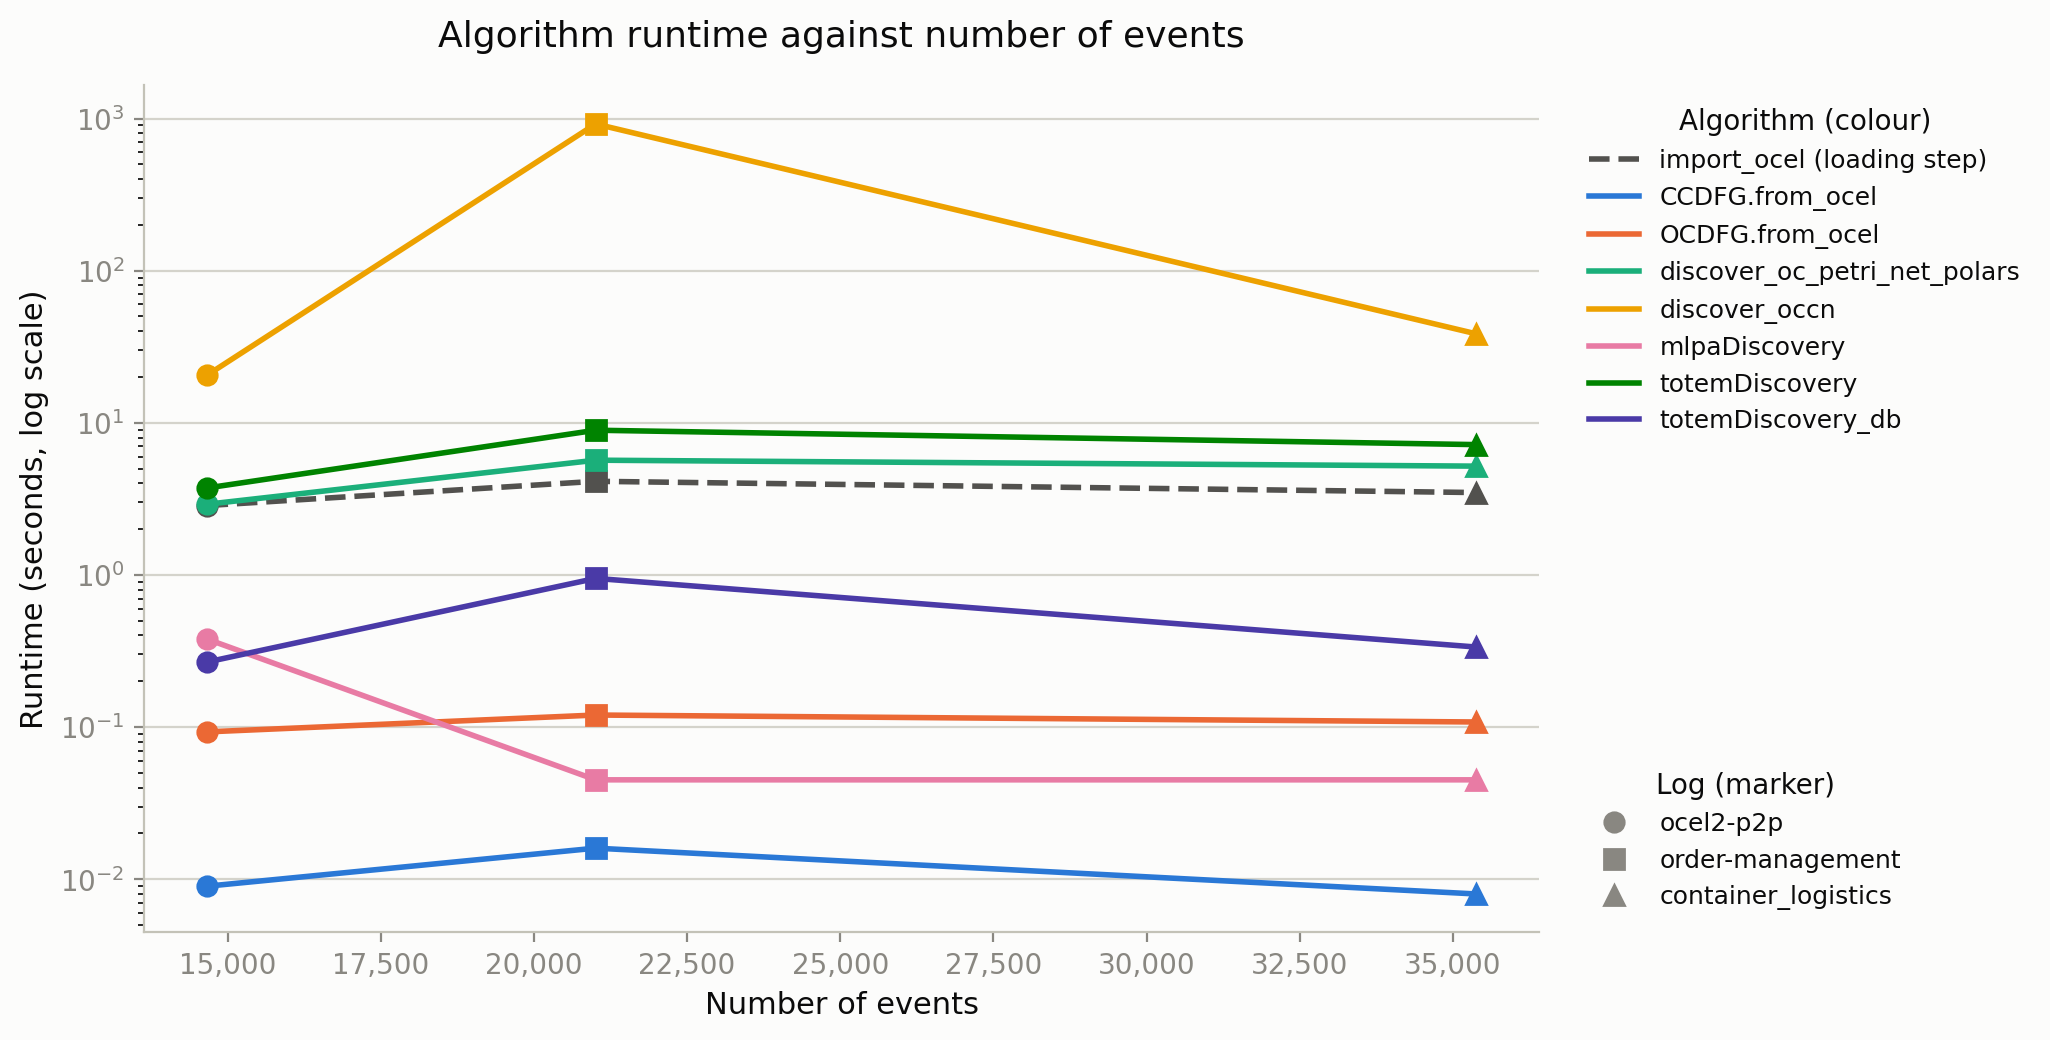
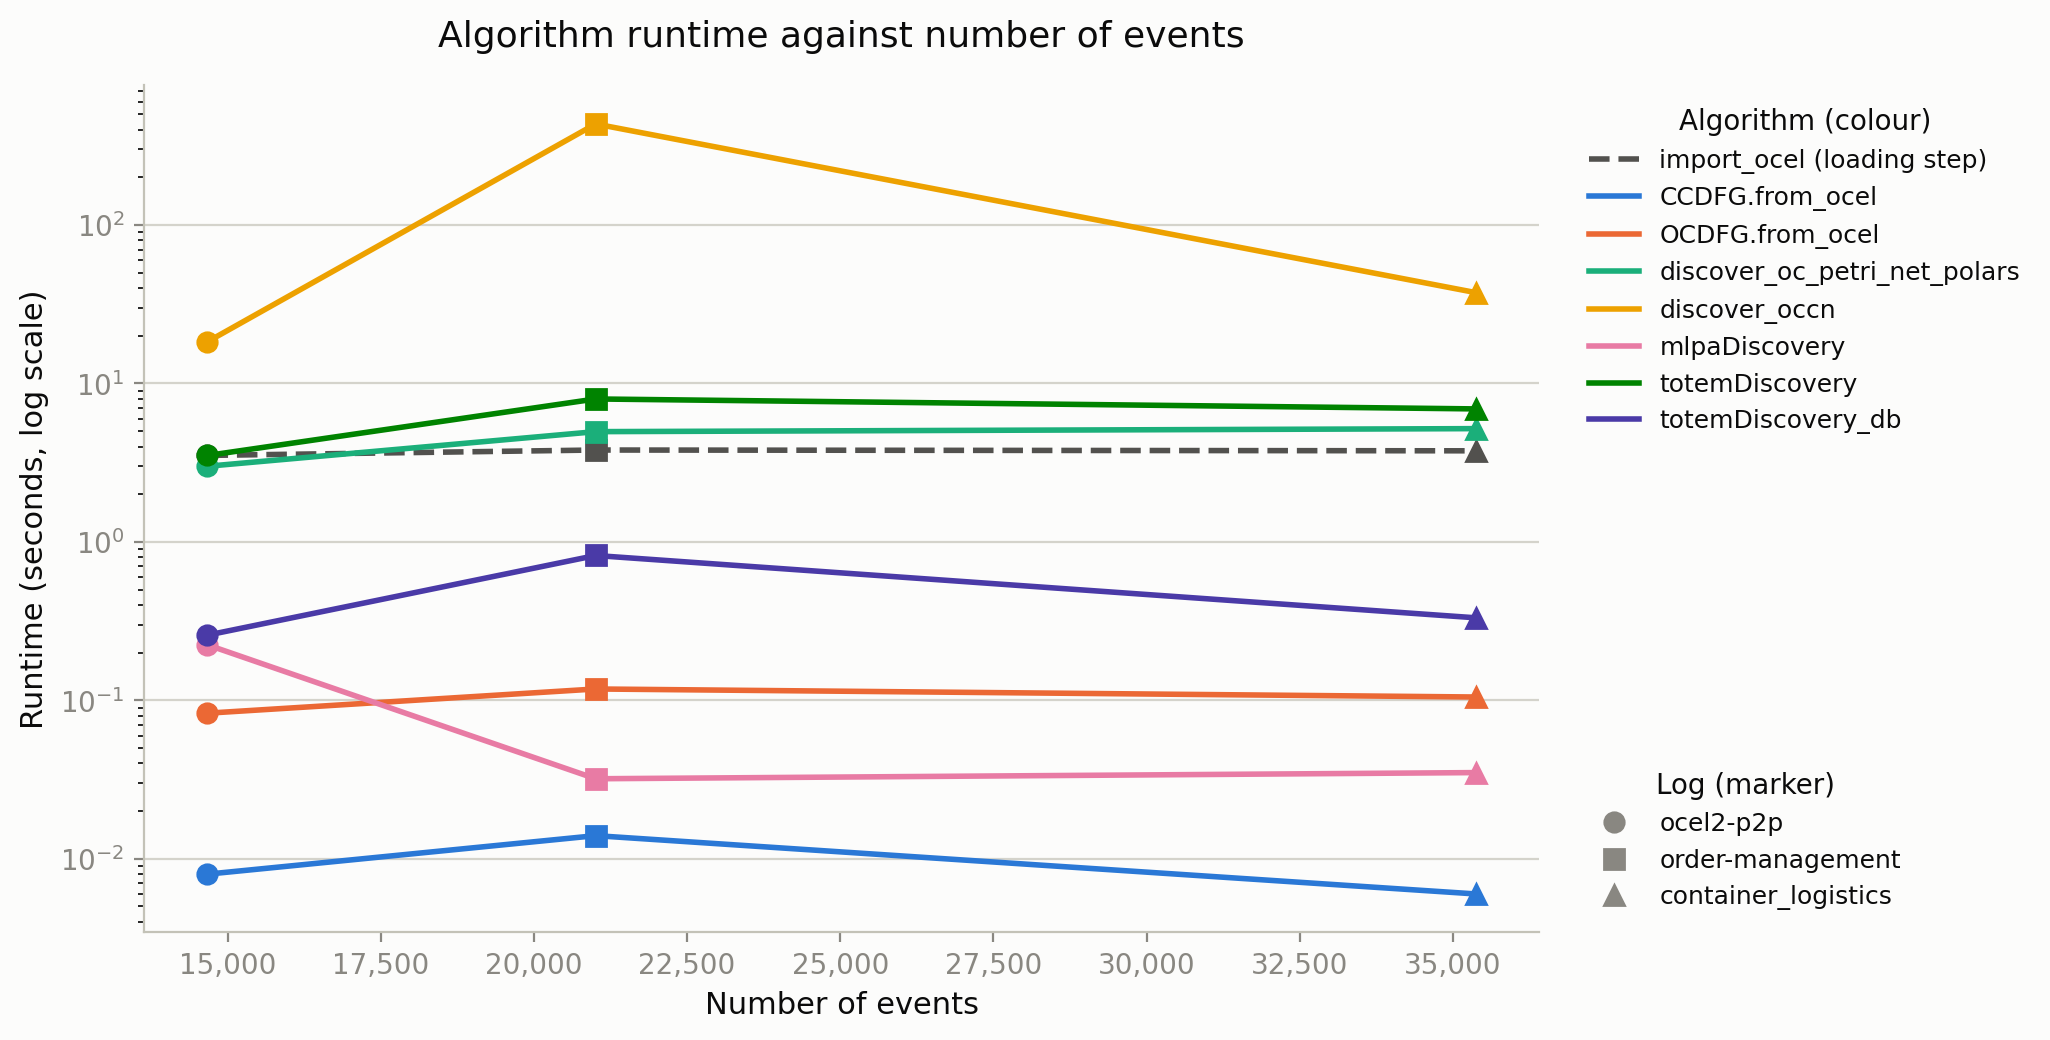
Build the DuckDB copy from the log file, and commit a clean example run
The _db algorithms were loading the .duckdb files bundled in test_data.
Those were built once, in April, from a normalised copy of the logs with
spaces stripped from object types and activities, so they held different
labels and slightly different rows from the OCEL files the polars side
reads. The two families were not measuring the same data.

That hid a real bug. container_logistics has a leading object type of
"Customer Order", but the bundled DuckDB called it "CustomerOrder", so
find_variants searched for an object type that did not exist. It returned
successfully in 0.754 s having done nothing, and that number was
published as a measurement.

LogContext now builds each DuckDB from the same OCEL file the polars side
reads, into a temporary directory that is removed on close. Labels and
event counts match on all three logs, and the leading type resolves. The
duckdb_path field goes with it: it only ever pointed at the stale copy,
and keeping it would invite the same bug back.

The two importers still disagree a little - the polars one filters out
objects the DuckDB one keeps, so ocel2-p2p has 9,543 objects against
9,054 - which is worth its own issue. Event counts and labels match.

The committed example is replaced with an averaged three-repeat run on an
idle machine. The previous one was a single sample taken while the test
suite ran, which inflated discover_occn to 921 s; the average is 434.7 s.
[…]

diff --git a/totem_lib/evaluation/datasets.py b/totem_lib/evaluation/datasets.py
@@ -175,9 +175,9 @@ class EvaluationLog:
     `download_url` is None for logs bundled in git; the download fields are only
     populated for logs that live in the gitignored `test_data/large/`.
 
-    `duckdb_path` points at the DuckDB copy of the same log, which the `_db` algorithms
-    need. `leading_object_type` is the object type used as the "case" when an algorithm
-    needs one, such as variant discovery.
+    `leading_object_type` is the object type used as the "case" when an algorithm needs
+    one, such as variant discovery. The `_db` algorithms build their own DuckDB copy
+    from `path` at run time, so no second file is recorded here.
     """
 
     name: str
@@ -185,7 +185,6 @@ class EvaluationLog:
     path: Path
     statistics: LogStatistics | None = None
     file_format: str | None = None
-    duckdb_path: Path | None = None
     leading_object_type: str | None = None
     download_url: str | None = None
     md5: str | None = None
@@ -195,11 +194,6 @@ class EvaluationLog:
     def available(self) -> bool:
         """Whether the log is present on disk and ready to load."""
         return self.path.exists()
-
-    @property
-    def has_duckdb(self) -> bool:
-        """Whether the DuckDB copy is on disk, which the *_db algorithms need."""
-        return self.duckdb_path is not None and self.duckdb_path.exists()
 
     @property
     def bundled(self) -> bool:
@@ -226,7 +220,6 @@ LOGS: tuple[EvaluationLog, ...] = tuple(
                 name="ocel2-p2p",
                 source_url="https://doi.org/10.5281/zenodo.8412919",
                 path=SMALL / "ocel2-p2p.json",
-                duckdb_path=SMALL / "ocel2-p2p.duckdb",
                 leading_object_type="purchase_requisition",
                 statistics=LogStatistics(
                     num_events=14671,
@@ -243,7 +236,6 @@ LOGS: tuple[EvaluationLog, ...] = tuple(
                 name="order-management",
                 source_url="https://doi.org/10.5281/zenodo.8337463",
                 path=SMALL / "order-management.json",
-                duckdb_path=SMALL / "order-management.duckdb",
                 leading_object_type="orders",
                 statistics=LogStatistics(
                     num_events=21008,
@@ -260,7 +252,6 @@ LOGS: tuple[EvaluationLog, ...] = tuple(
                 name="container_logistics",
                 source_url="https://doi.org/10.5281/zenodo.8289899",
                 path=SMALL / "container_logistics.json",
-                duckdb_path=SMALL / "container_logistics.duckdb",
                 leading_object_type="Customer Order",
                 statistics=LogStatistics(
                     num_events=35372,

diff --git a/totem_lib/tests/test_algorithms.py b/totem_lib/tests/test_algorithms.py
@@ -104,16 +104,46 @@ def test_the_totem_is_discovered_once_and_reused(monkeypatch):
     assert calls == ["an-ocel"]  # discovered once, from the imported log
 
 
-def test_a_log_without_a_duckdb_copy_says_so():
-    context = LogContext(_log(duckdb_path=None))
-    with pytest.raises(MissingInput, match="no DuckDB copy"):
-        _ = context.ocel_db
+def test_the_duckdb_copy_is_built_from_the_log_file(monkeypatch):
+    """
+    Both families must read the same file. The bundled .duckdb copies were built from a
+    normalised log, with spaces stripped from labels, so loading those would benchmark
+    different data - and did hide a real bug before this was fixed.
+    """
+    seen = []
+    monkeypatch.setattr("evaluation.algorithms.import_ocel_db",
+                        lambda path, db_path: seen.append((path, db_path)) or "a-db")
+    log = _log()
+    context = LogContext(log)
+    assert context.ocel_db == "a-db"
+    assert seen[0][0] == str(log.path)          # built from the log's own file
+    assert seen[0][1].endswith(".duckdb")
 
 
-def test_a_missing_duckdb_file_says_so():
-    context = LogContext(_log(duckdb_path=Path("does-not-exist.duckdb")))
-    with pytest.raises(MissingInput, match="no DuckDB copy"):
-        _ = context.ocel_db
+def test_the_duckdb_copy_is_built_once(monkeypatch):
+    calls = []
+    monkeypatch.setattr("evaluation.algorithms.import_ocel_db",
+                        lambda path, db_path: calls.append(path) or "a-db")
+    context = LogContext(_log())
+    _ = context.ocel_db
+    _ = context.ocel_db
+    assert len(calls) == 1
+
+
+def test_closing_removes_the_temporary_database(monkeypatch):
+    monkeypatch.setattr("evaluation.algorithms.import_ocel_db",
+                        lambda path, db_path: _FakeDb())
+    context = LogContext(_log())
+    _ = context.ocel_db
+    scratch = Path(context._db_dir)
+    assert scratch.exists()
+    context.close()
+    assert not scratch.exists()
+
+
+class _FakeDb:
+    def close(self):
+        pass
 
 
 def test_a_log_without_a_leading_object_type_says_so():
@@ -136,9 +166,8 @@ def test_closing_a_context_without_a_database_is_harmless():
 # ---------------------------------------------------------------------------
 
 def test_every_log_can_supply_what_the_db_algorithms_need():
-    """totemDiscovery_db and find_variants are unusable without these."""
+    """CCDFG and find_variants are unusable without a leading object type."""
     for log in LOGS:
-        assert log.duckdb_path is not None, log.name
         assert log.leading_object_type, log.name
 
 

diff --git a/totem_lib/evaluation/run_benchmarks.py b/totem_lib/evaluation/run_benchmarks.py
@@ -8,16 +8,25 @@ in later.
 
 A failing algorithm is reported and the run carries on. Ctrl+C stops the whole run.
 
-Costs vary enormously, and not with the number of events. Measured once, at one repeat:
+Costs vary enormously, and not with the number of events. Averages of three runs on an
+idle machine:
 
     algorithm       ocel2-p2p (14.7k)  order-management (21k)  container_logistics (35.4k)
-    discover_occn              20 s               610 s                    61 s
-    find_variants             1.6 s        did not finish                 0.8 s
-    OCDFG.from_ocel           0.2 s               0.1 s                    0.1 s
+    discover_occn            18.3 s              434.7 s                  37.5 s
+    totemDiscovery            3.5 s                8.0 s                   6.9 s
+    totemDiscovery_db        0.26 s               0.82 s                  0.33 s
+    OCDFG.from_ocel          0.08 s               0.12 s                  0.11 s
+    find_variants             1.6 s        out of memory            not measured
 
-order-management is the smaller log of the last two, yet it is where both slow algorithms
+order-management is the smaller log of the last two, yet it is where the slow algorithms
 blow up. It has the most event-to-object relations by far (147k, against 74k), which is
-what those two actually scale with. Start anything new on ocel2-p2p with --repeats 1.
+what they actually scale with. Start anything new on ocel2-p2p with --repeats 1.
+
+find_variants is left out of the committed run: it exhausts memory on order-management
+and ends in a MemoryError, taking the machine down with it. Its container_logistics
+figure is unmeasured - an earlier 0.8 s reading was invalid, because the benchmark then
+loaded a bundled .duckdb whose labels had spaces stripped, so the leading object type
+did not exist and the call did nothing.
 
 Run from the totem_lib/ directory:
     python evaluation/run_benchmarks.py
@@ -211,10 +220,9 @@ def print_plan(logs: Sequence[EvaluationLog], algorithms: Sequence[Algorithm]) -
     """Show what a run would cover, without running anything."""
     print("Logs:")
     for log in logs:
-        duckdb = "yes" if log.has_duckdb else "NO"
         print(
             f"  {log.name:24}{log.event_count or '?':>9} events  "
-            f"duckdb={duckdb}  leading_type={log.leading_object_type!r}"
+            f"leading_type={log.leading_object_type!r}"
         )
     print("\nAlgorithms:")
     for algorithm in algorithms:

diff --git a/totem_lib/evaluation/algorithms.py b/totem_lib/evaluation/algorithms.py
@@ -28,6 +28,9 @@ _TOTEM_LIB = Path(__file__).resolve().parent.parent
 sys.path.insert(0, str(_TOTEM_LIB / "src"))
 sys.path.insert(0, str(_TOTEM_LIB))
 
+import shutil
+import tempfile
+
 import polars as pl
 
 from evaluation.datasets import EvaluationLog, import_args
@@ -40,6 +43,7 @@ from totem_lib import (
     mlpaDiscovery,
     totemDiscovery,
 )
+from totem_lib.ocel.importer_db import import_ocel_db
 from totem_lib.ocel.ocel_duckdb import OcelDuckDB
 from totem_lib.totem import totemDiscovery_db
 from totem_lib.variants import find_variants
@@ -69,6 +73,7 @@ class LogContext:
         self.log = log
         self._ocel = None
         self._ocel_db = None
+        self._db_dir = None
         self._totem = None
         self._base_df = None
 
@@ -81,13 +86,22 @@ class LogContext:
 
     @property
     def ocel_db(self) -> OcelDuckDB:
-        """The DuckDB copy of the log, for the `_db` algorithms."""
+        """
+        The log loaded into DuckDB, for the `_db` algorithms.
+
+        Built from the same OCEL file the Polars side reads, so both families measure
+        the same data. The `.duckdb` files in test_data are not used: they were built
+        once from a normalised copy of the logs, with spaces stripped from object types
+        and activities, so they hold different labels and slightly different rows.
+
+        It is written to a temporary directory, not next to the log, because DuckDB
+        leaves scratch files beside its database.
+        """
         if self._ocel_db is None:
-            if not self.log.has_duckdb:
-                raise MissingInput(
-                    f"{self.log.name} has no DuckDB copy at {self.log.duckdb_path}"
-                )
-            self._ocel_db = OcelDuckDB.load(str(self.log.duckdb_path))
+            if self._db_dir is None:
+                self._db_dir = tempfile.mkdtemp(prefix="totem-eval-")
+            db_path = Path(self._db_dir) / f"{self.log.name}.duckdb"
+            self._ocel_db = import_ocel_db(str(self.log.path), db_path=str(db_path))
         return self._ocel_db
 
     @property
@@ -128,6 +142,9 @@ class LogContext:
         if self._ocel_db is not None:
             self._ocel_db.close()
             self._ocel_db = None
+        if self._db_dir is not None:
+            shutil.rmtree(self._db_dir, ignore_errors=True)
+            self._db_dir = None
 
 
 # ---------------------------------------------------------------------------

diff --git a/totem_lib/README.md b/totem_lib/README.md
@@ -119,10 +119,6 @@ algorithms differ by five orders of magnitude, and `import_ocel` is drawn as a g
 dashed baseline because it is the loading step the others build on, not a discovery
 algorithm.
 
-Reading the same results against different metrics matters. `discover_occn` looks
-erratic against the event count - slowest on the middle-sized log - but rises steadily
-against the number of event-to-object relations, which is what it actually scales with.
-
 Use `--no-figures` for a quick partial run: a filtered run would otherwise overwrite the
 committed figures with incomplete data. To rebuild the figures from the saved results
 without running anything:
@@ -133,9 +129,72 @@ plot_all(rows_from_csv("evaluation/results/benchmark_results.csv"))
 ```
 
 The algorithms differ enormously in cost — from `CCDFG.from_ocel` at ~0.01 s to
-`discover_occn` at ~20 s on the smallest log — so try anything new on `ocel2-p2p` with
-`--repeats 1` first. `evaluation/algorithms.py` lists what runs and how each one is
+`discover_occn` at over 7 minutes on `order-management` — so try anything new on
+`ocel2-p2p` with `--repeats 1` first. `evaluation/algorithms.py` lists what runs and how each one is
 called; it is also where a new algorithm gets added.
+
+## Example run
+
+One full run is committed, so the output can be read without running anything. It was
+produced on an otherwise idle machine with the default three repeats, leaving out the one
+algorithm that cannot complete (see below):
+
+```bash
+python evaluation/run_benchmarks.py --repeats 3 \
+  --algorithms import_ocel,totemDiscovery,totemDiscovery_db,mlpaDiscovery,discover_oc_petri_net_polars,discover_occn,OCDFG.from_ocel,CCDFG.from_ocel
+```
+
+That takes about 25 minutes, almost all of it `discover_occn` on `order-management`.
+
+- [`evaluation/results/benchmark_results.md`](evaluation/results/benchmark_results.md) — the tables
+- [`evaluation/results/benchmark_results.csv`](evaluation/results/benchmark_results.csv) — the same rows, for tools
+- [`figures/`](figures/) — one plot per size metric
+
+![Algorithm runtime against number of events](figures/runtime_vs_num_events.png)
+
+### What it shows
+
+The choice of x-axis changes the story, which is why the tool records six size metrics
+instead of only the event count.
+
+`discover_occn` is by far the slowest algorithm, and it is slowest on
+`order-management` — the log in the **middle** by event count, not the largest. Plotted
+against events its line spikes and then falls, which reads as nonsense. Plotted against
+event-to-object relations it rises steadily, because that is what it actually scales
+with: `order-management` has 147k such relations against 74k for the larger
+`container_logistics`.
+
+Compare the two figures side by side:
+
+- [runtime against events](figures/runtime_vs_num_events.png) — the misleading view
+- [runtime against event-to-object relations](figures/runtime_vs_num_e2o_relations.png) — the explanatory one
+
+`totemDiscovery_db` is also worth noting: it runs 10x to 21x faster than the Polars
+`totemDiscovery` on every log (3.5 s to 0.26 s, 8.0 s to 0.82 s, 6.9 s to 0.33 s). Both
+read the same OCEL file, so this is a like-for-like comparison.
+
+### How to read the numbers
+
+- **Timings are from one machine** (a Windows dev laptop) and are only meaningful
+  relative to each other. Re-run the command to get numbers for your own hardware.
+- **Peak RAM understates Polars and DuckDB.** It comes from `tracemalloc`, which counts
+  Python allocations only, and both libraries do most of their work in native memory.
+- **Two metrics are weak axes.** Object types (6–7) and activities (10–14) barely vary
+  across three logs, so those two figures show little. A larger log would fix this; the
+  2.4M-event Age of Empires log is not usable yet, for the reason recorded in
+  `evaluation/datasets.py`.
+- **`find_variants` is missing.** It exhausts memory on `order-management` and ends in a
+  `MemoryError`, so it is left out of the committed run rather than taking the machine
+  down with it. `order-management` has 147k event-to-object relations, twice
+  `container_logistics`, and variant extraction scales with that rather than with events.
+  Run it on its own if you want to measure it.
+- **The two importers disagree slightly.** The `_db` algorithms build their DuckDB copy
+  from the same OCEL file the Polars side reads, so both measure the same log. They are
+  not byte-identical though: the Polars importer filters out objects the DuckDB one
+  keeps, so `ocel2-p2p` has 9,543 objects on the DuckDB side against 9,054 on the Polars
+  side. Event counts and labels match everywhere.
+- **Re-running with `--logs` or `--algorithms` overwrites these files** with partial
+  data. Regenerate the committed example only from the full command.
 
 ## Acknowledgements
 The TOTeM module is based on the original implementation by [Lukas Liss](https://github.com/LukasLiss/multi-level-resource-detection/).

diff --git a/totem_lib/evaluation/results/benchmark_results.md b/totem_lib/evaluation/results/benchmark_results.md
@@ -1,6 +1,6 @@
 # Benchmark Results
 
-Generated 2026-08-21 07:48, 1 repeat(s) per algorithm
+Generated 2026-09-03 09:52, 3 repeat(s) per algorithm
 
 Peak RAM comes from `tracemalloc`, which only sees Python allocations. Polars and DuckDB work mostly in native memory, so these numbers understate what those algorithms really use.
 
@@ -16,27 +16,27 @@ Peak RAM comes from `tracemalloc`, which only sees Python allocations. Polars an
 
 | Log | Events | Algorithm | Time (s) | Peak RAM (MB) |
 |---|---|---|---|---|
-| ocel2-p2p | 14,671 | import_ocel | 2.86 | 87.43 |
-| ocel2-p2p | 14,671 | totemDiscovery | 3.732 | 38.4 |
-| ocel2-p2p | 14,671 | totemDiscovery_db | 0.268 | 0.09 |
-| ocel2-p2p | 14,671 | mlpaDiscovery | 0.378 | 0.1 |
-| ocel2-p2p | 14,671 | discover_oc_petri_net_polars | 2.916 | 29.08 |
-| ocel2-p2p | 14,671 | discover_occn | 20.634 | 115.8 |
-| ocel2-p2p | 14,671 | OCDFG.from_ocel | 0.093 | 0.2 |
-| ocel2-p2p | 14,671 | CCDFG.from_ocel | 0.009 | 0.1 |
-| order-management | 21,008 | import_ocel | 4.126 | 94.81 |
-| order-management | 21,008 | totemDiscovery | 8.938 | 74.13 |
-| order-management | 21,008 | totemDiscovery_db | 0.949 | 0.08 |
-| order-management | 21,008 | mlpaDiscovery | 0.045 | 0.04 |
-| order-management | 21,008 | discover_oc_petri_net_polars | 5.679 | 92.23 |
-| order-management | 21,008 | discover_occn | 921.408 | 253.86 |
-| order-management | 21,008 | OCDFG.from_ocel | 0.12 | 0.61 |
-| order-management | 21,008 | CCDFG.from_ocel | 0.016 | 0.14 |
-| container_logistics | 35,372 | import_ocel | 3.48 | 70.44 |
-| container_logistics | 35,372 | totemDiscovery | 7.19 | 75.24 |
-| container_logistics | 35,372 | totemDiscovery_db | 0.336 | 0.09 |
-| container_logistics | 35,372 | mlpaDiscovery | 0.045 | 0.04 |
-| container_logistics | 35,372 | discover_oc_petri_net_polars | 5.19 | 54.76 |
-| container_logistics | 35,372 | discover_occn | 38.524 | 218.05 |
-| container_logistics | 35,372 | OCDFG.from_ocel | 0.108 | 0.79 |
-| container_logistics | 35,372 | CCDFG.from_ocel | 0.008 | 0.04 |
+| ocel2-p2p | 14,671 | import_ocel | 3.516 | 87.45 |
+| ocel2-p2p | 14,671 | totemDiscovery | 3.512 | 38.4 |
+| ocel2-p2p | 14,671 | totemDiscovery_db | 0.258 | 0.09 |
+| ocel2-p2p | 14,671 | mlpaDiscovery | 0.224 | 0.08 |
+| ocel2-p2p | 14,671 | discover_oc_petri_net_polars | 3.004 | 28.96 |
+| ocel2-p2p | 14,671 | discover_occn | 18.344 | 116.31 |
+| ocel2-p2p | 14,671 | OCDFG.from_ocel | 0.083 | 0.2 |
+| ocel2-p2p | 14,671 | CCDFG.from_ocel | 0.008 | 0.1 |
+| order-management | 21,008 | import_ocel | 3.803 | 94.81 |
+| order-management | 21,008 | totemDiscovery | 7.987 | 74.13 |
+| order-management | 21,008 | totemDiscovery_db | 0.821 | 0.08 |
+| order-management | 21,008 | mlpaDiscovery | 0.032 | 0.04 |
+| order-management | 21,008 | discover_oc_petri_net_polars | 4.967 | 92.28 |
+| order-management | 21,008 | discover_occn | 434.734 | 253.73 |
+| order-management | 21,008 | OCDFG.from_ocel | 0.118 | 0.61 |
+| order-management | 21,008 | CCDFG.from_ocel | 0.014 | 0.14 |
+| container_logistics | 35,372 | import_ocel | 3.759 | 70.44 |
+| container_logistics | 35,372 | totemDiscovery | 6.912 | 75.24 |
+| container_logistics | 35,372 | totemDiscovery_db | 0.332 | 0.1 |
+| container_logistics | 35,372 | mlpaDiscovery | 0.035 | 0.04 |
+| container_logistics | 35,372 | discover_oc_petri_net_polars | 5.189 | 54.82 |
+| container_logistics | 35,372 | discover_occn | 37.487 | 217.99 |
+| container_logistics | 35,372 | OCDFG.from_ocel | 0.105 | 0.79 |
+| container_logistics | 35,372 | CCDFG.from_ocel | 0.006 | 0.04 |
